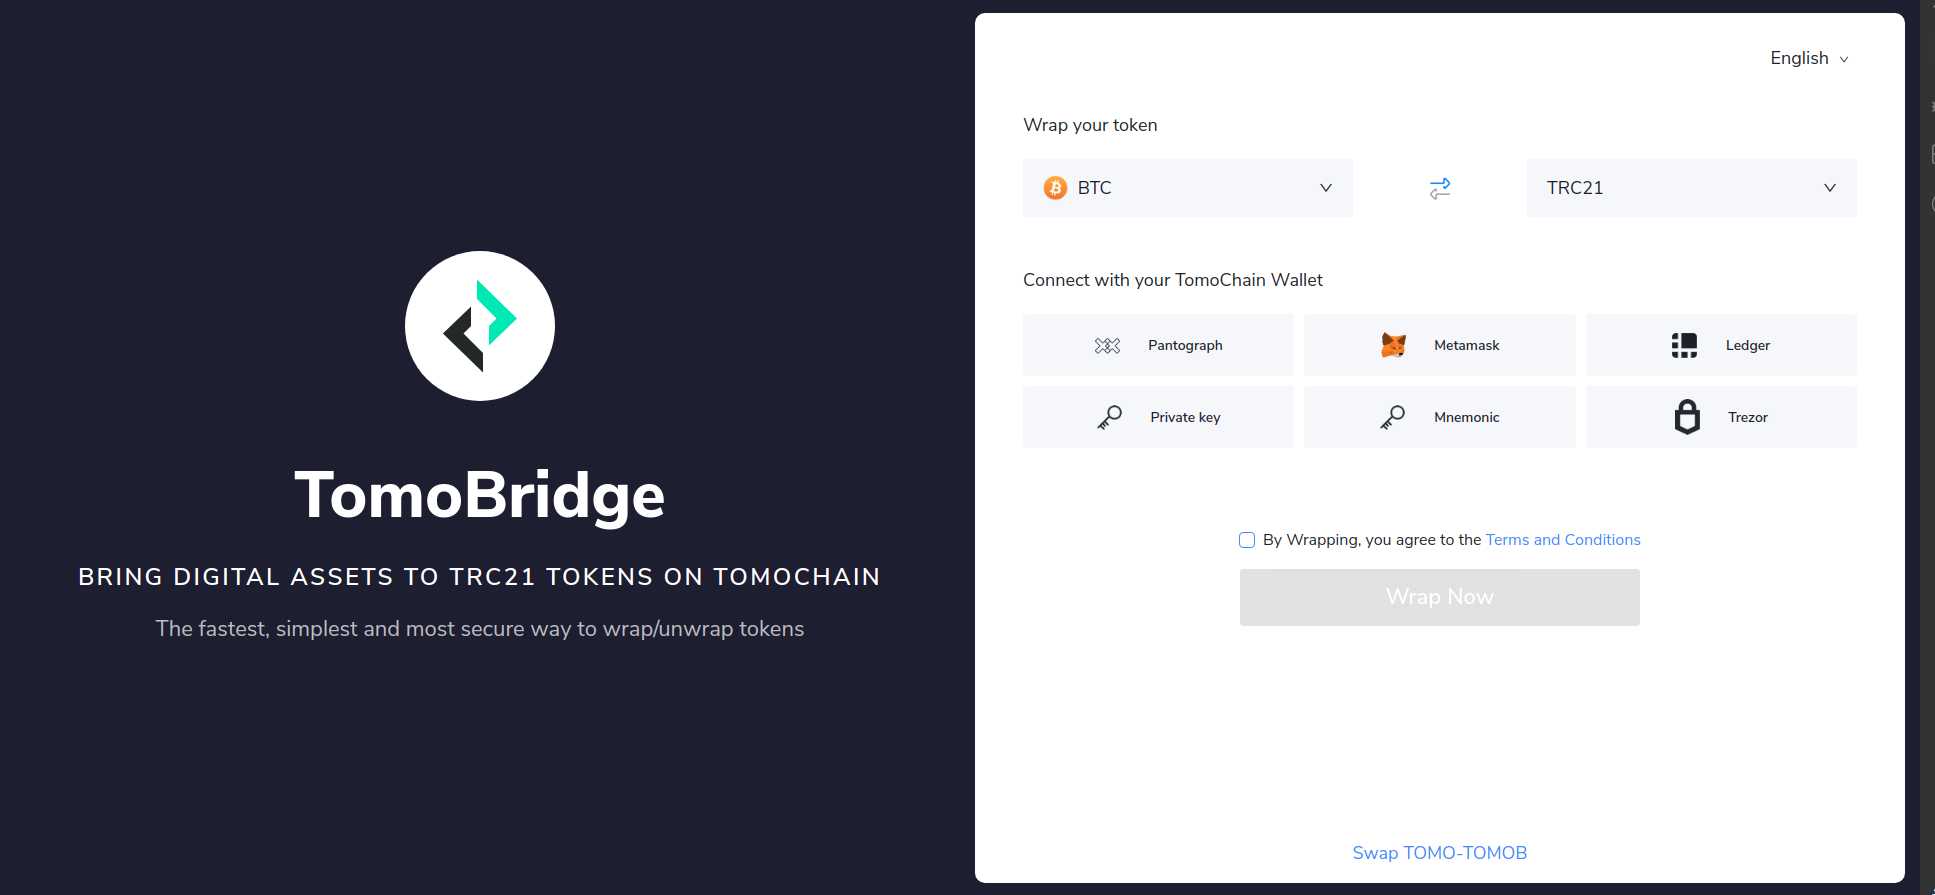
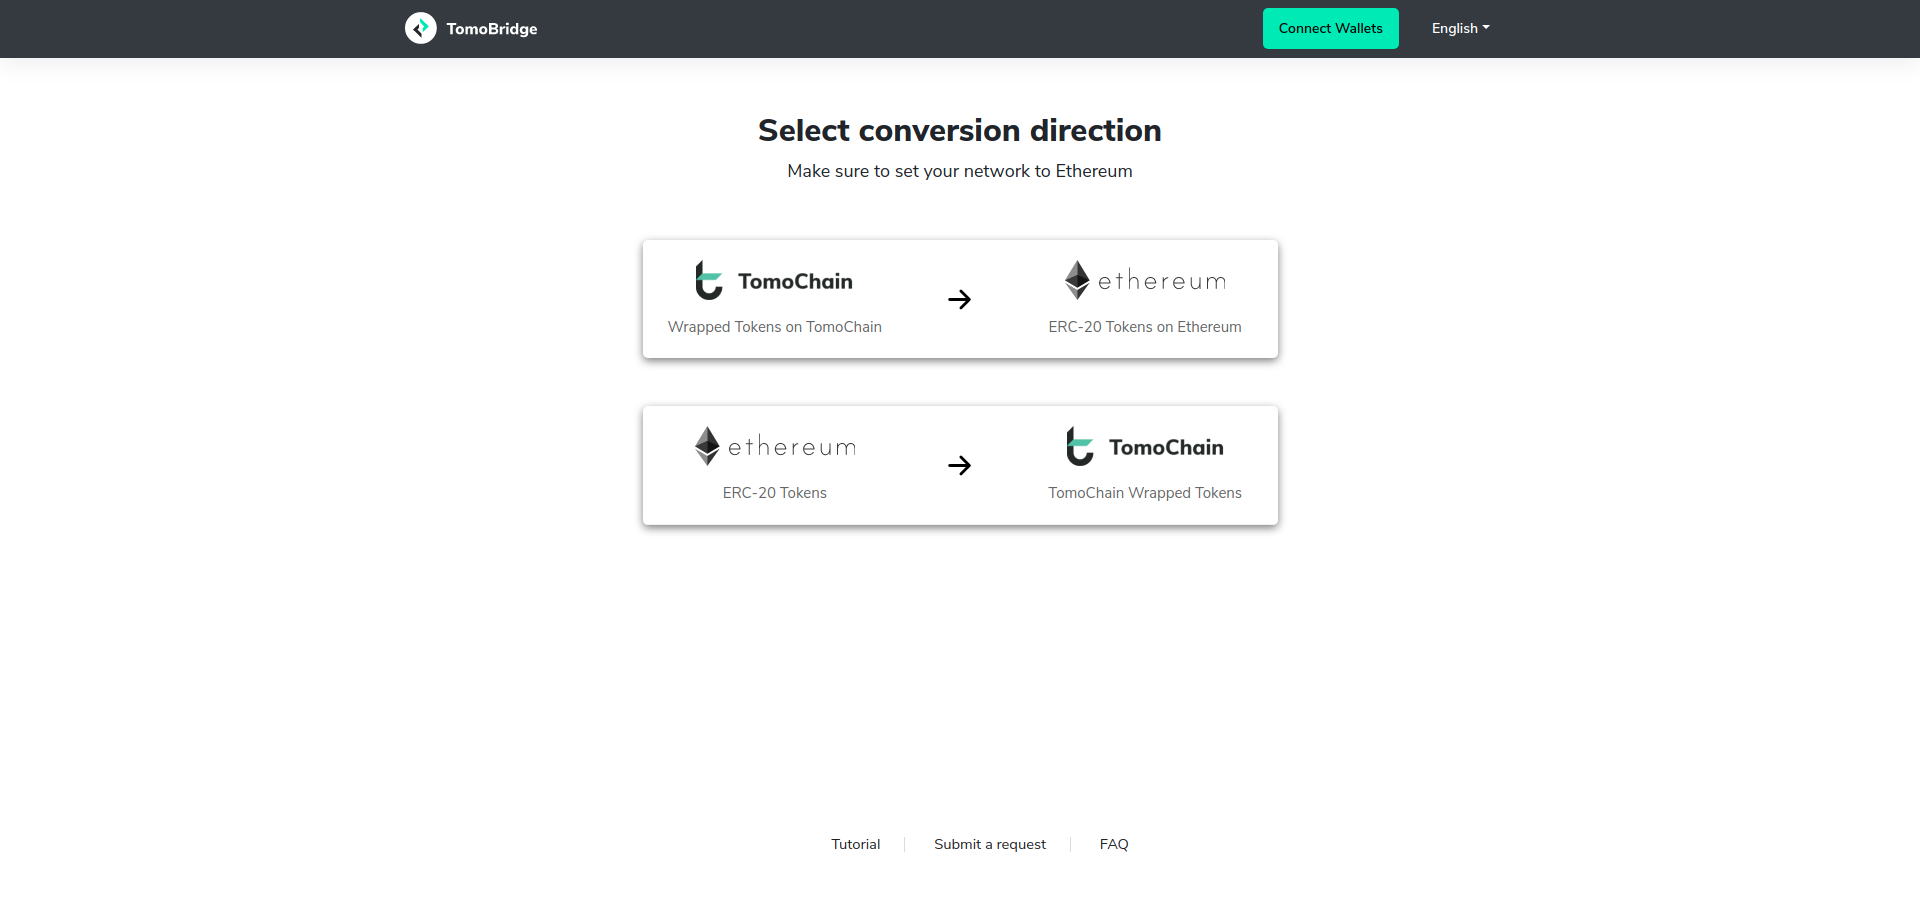
update text, thumbnail

diff --git a/app/App.vue b/app/App.vue
@@ -93,6 +93,9 @@
                     <div class="row">
                         <ul class="">
                             <li>
+                                <a href="#">Tutorial</a>
+                            </li>
+                            <li>
                                 <a
                                     :target="provider === 'tomowallet' ? '' : '_blank'"
                                     href="https://forms.gle/cU1XU3b8EUMxB6yA6">
@@ -104,7 +107,7 @@
                                     href="https://docs.tomochain.com/tomobridge/faq">
                                     FAQ</a>
                             </li>
-                            <li>
+                            <!-- <li>
                                 <a
                                     :target="provider === 'tomowallet' ? '' : '_blank'"
                                     href="https://docs.tomochain.com/tomobridge/fee-structure">
@@ -115,7 +118,7 @@
                                     :target="provider === 'tomowallet' ? '' : '_blank'"
                                     href="https://docs.tomochain.com/tomobridge/trc21-wrapped-token-information">
                                     TRC21 Wrapped Tokens</a>
-                            </li>
+                            </li> -->
                         </ul>
                     </div>
                 </div>

diff --git a/app/Select.vue b/app/Select.vue
@@ -20,7 +20,7 @@
                                         src="/app/assets/images/logo-tomochain.png"
                                         class="logo-icon">
                                 </p>
-                                <span>TomoChain Wrapped Tokens</span>
+                                <span>Wrapped Tokens on TomoChain</span>
                             </div>
                             <div class="col-2 text-center">
                                 <b-icon
@@ -34,7 +34,7 @@
                                         src="/app/assets/images/ethereum.svg"
                                         class="logo-icon">
                                 </p>
-                                <span>ERC-20 Tokens</span>
+                                <span>ERC-20 Tokens on Ethereum</span>
                             </div>
                         </a>
                         <a
